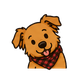
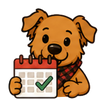
reemplazar chiqui_ladeado por PNG correcto en botón nada raro

diff --git a/app/registro-diario/page.tsx b/app/registro-diario/page.tsx
@@ -493,7 +493,7 @@ function RegistroContenido() {
         onClick={marcarTodoNormal}
         className="mx-4 mt-2 mb-1 w-[calc(100%-2rem)] bg-[#FFBD59] rounded-2xl px-4 py-3.5 flex items-center gap-3 text-left"
       >
-        <span className="text-2xl flex-shrink-0">🐶</span>
+        <img src="/chiqui/chiqui_ladeado.png" alt="Chiqui" className="w-10 h-10 object-contain flex-shrink-0" />
         <div className="flex-1">
           <p className="text-sm font-bold text-[#1A1200]">¿Hoy no notaste nada raro?</p>
           <p className="text-[11px] text-[#1A1200]/70">Marca todo como normal en un toque</p>